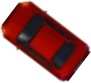
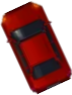
Check Collision

diff --git a/new_Game_Project/Player.cpp b/new_Game_Project/Player.cpp
@@ -9,7 +9,7 @@ void Player::renderPlayer(SDL_Renderer* renderer,string file_path)
     SDL_Rect player_rect;
     player_rect.x = x;
     player_rect.y = y;
-    player_rect.w = 51;
+    player_rect.w = 45;
     player_rect.h = 85;
     SDL_RenderCopy(renderer , player, NULL, &player_rect);
     SDL_DestroyTexture(player);
@@ -20,8 +20,7 @@ void Player::inside()
     if (x < 25) x=25;
     if (x > 225) x=225;
 }
-
-void Player::pollEvent(SDL_Event event,SDL_Renderer* renderer, Player mainPlayer)
+void Player::pollEvent(SDL_Event event,SDL_Renderer* renderer, Player mainPlayer, string &nameFilePlayer)
 {
     switch (event.type)
     {
@@ -36,28 +35,36 @@ void Player::pollEvent(SDL_Event event,SDL_Renderer* renderer, Player mainPlayer
                 case SDLK_LEFT:
                     {
                         if (x == 25);
-                        else x -= step;
+                        else{
+                            x -= step;
+                            nameFilePlayer = "image/Player_ani_1.png";
+                        }
                         break;
                     }
                 case SDLK_RIGHT:
                     {
                         if (x == 225);
-                        else x += step;
+                        else{
+                            x += step;
+                            nameFilePlayer = "image/Player_ani_2.png";
+                        }
                         break;
                     }
                 default: break;
             }
         }
         //khi nhả phím
-        /*else if (event.type == SDL_KEYUP )
+        else if (event.type == SDL_KEYUP )
         {
             switch(event.key.keysym.sym)
             {
-                case SDLK_LEFT: x += 10; break;
-                case SDLK_RIGHT: x -= 10; break;
+                case SDLK_LEFT: nameFilePlayer = "image/Player.png"; break;
+                case SDLK_RIGHT: nameFilePlayer = "image/Player.png";; break;
                 default: break;
             }
-        }*/
+        }
         } break;
     }
 }
+
+

diff --git a/new_Game_Project/Main.cpp b/new_Game_Project/Main.cpp
@@ -42,7 +42,7 @@ int main(int argc, char* argv[])
     Barrier barrier1(10,0);
 
     Barrier barrier2(110,0);
-
+    int dem=0;
     while (running == true)
     {
         SDL_RenderClear(renderer);
@@ -60,7 +60,7 @@ int main(int argc, char* argv[])
         if(SDL_PollEvent(&event))
         {
             if (event.type == SDL_QUIT) running = false;
-            mainPlayer.pollEvent(event, renderer, mainPlayer);
+            mainPlayer.pollEvent(event, renderer, mainPlayer, nameFilePlayer);
         }
 
         //chay barriers
@@ -70,6 +70,11 @@ int main(int argc, char* argv[])
         barrier2.renderBarrier(renderer);
         barrier2.move2();
         SDL_RenderPresent(renderer);
+
+        //kiem tra va cham
+        dem++;
+        if (barrier1.checkCollision(mainPlayer) ) cout <<"yes"<<dem<<endl;
+        if (barrier2.checkCollision(mainPlayer) ) cout <<"yes"<<dem<<endl;
     }
 
 

diff --git a/new_Game_Project/Player.h b/new_Game_Project/Player.h
@@ -5,7 +5,6 @@
 #include <SDL_image.h>
 #include <string>
 using namespace std;
-
 struct Player{
     int x;
     int y;
@@ -20,7 +19,7 @@ struct Player{
 
     void inside();
 
-    void pollEvent(SDL_Event event,SDL_Renderer* renderer,Player mainPlayer);
+    void pollEvent(SDL_Event event,SDL_Renderer* renderer,Player mainPlayer, string &nameFilePlayer);
 };
 
 #endif // MAINPLAYER_H

diff --git a/new_Game_Project/Barrier.h b/new_Game_Project/Barrier.h
@@ -1,6 +1,7 @@
 #ifndef BARRIER_H
 #define BARRIER_H
 
+#include "Player.h"
 #include <SDL.h>
 #include <SDL_image.h>
 #include <string>
@@ -23,5 +24,7 @@ struct Barrier
     void move1();
 
     void move2();
+
+    bool checkCollision(Player playerCheck);
 };
 #endif // BARRIER_H

diff --git a/new_Game_Project/Barrier.cpp b/new_Game_Project/Barrier.cpp
@@ -53,3 +53,9 @@ void Barrier::move2()
         if (posNameBarrier ==4) posNameBarrier =0;
     }
 }
+
+bool Barrier::checkCollision(Player playerCheck)
+{
+    if ( y > 650 && y < 800 && x + 15 == playerCheck.x ) return true;
+    else return false;
+}

diff --git a/new_Game_Project/Function.h b/new_Game_Project/Function.h
@@ -10,5 +10,6 @@ using namespace std;
 
 SDL_Texture* load_image(string file_path,SDL_Renderer* renderer);
 
+
 #endif // FUNCTION_H
 
